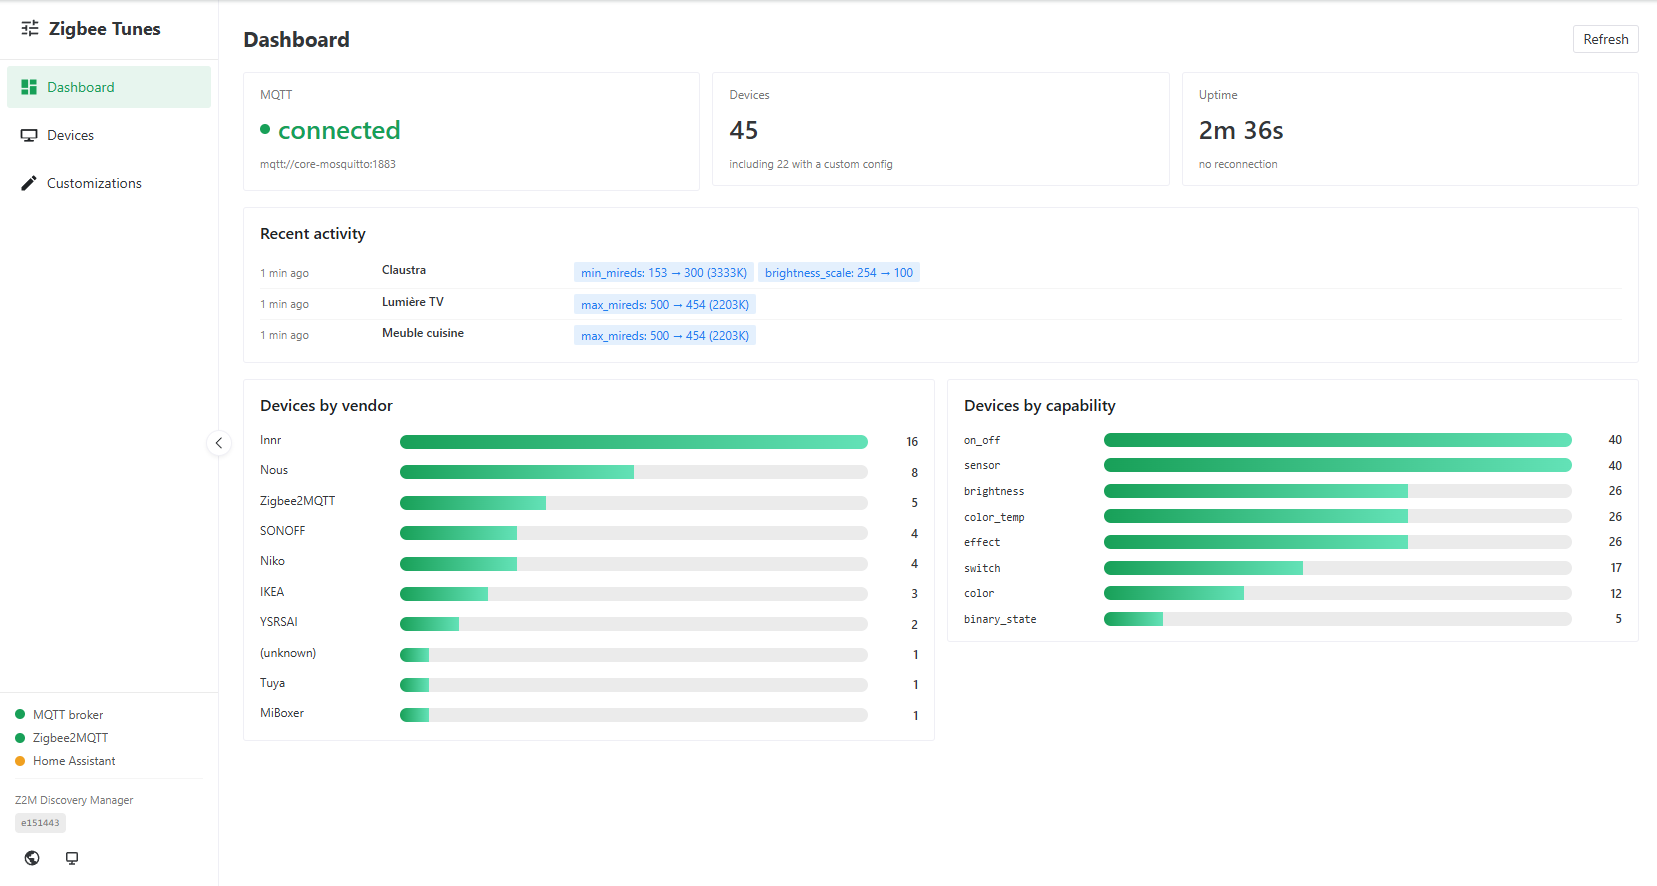
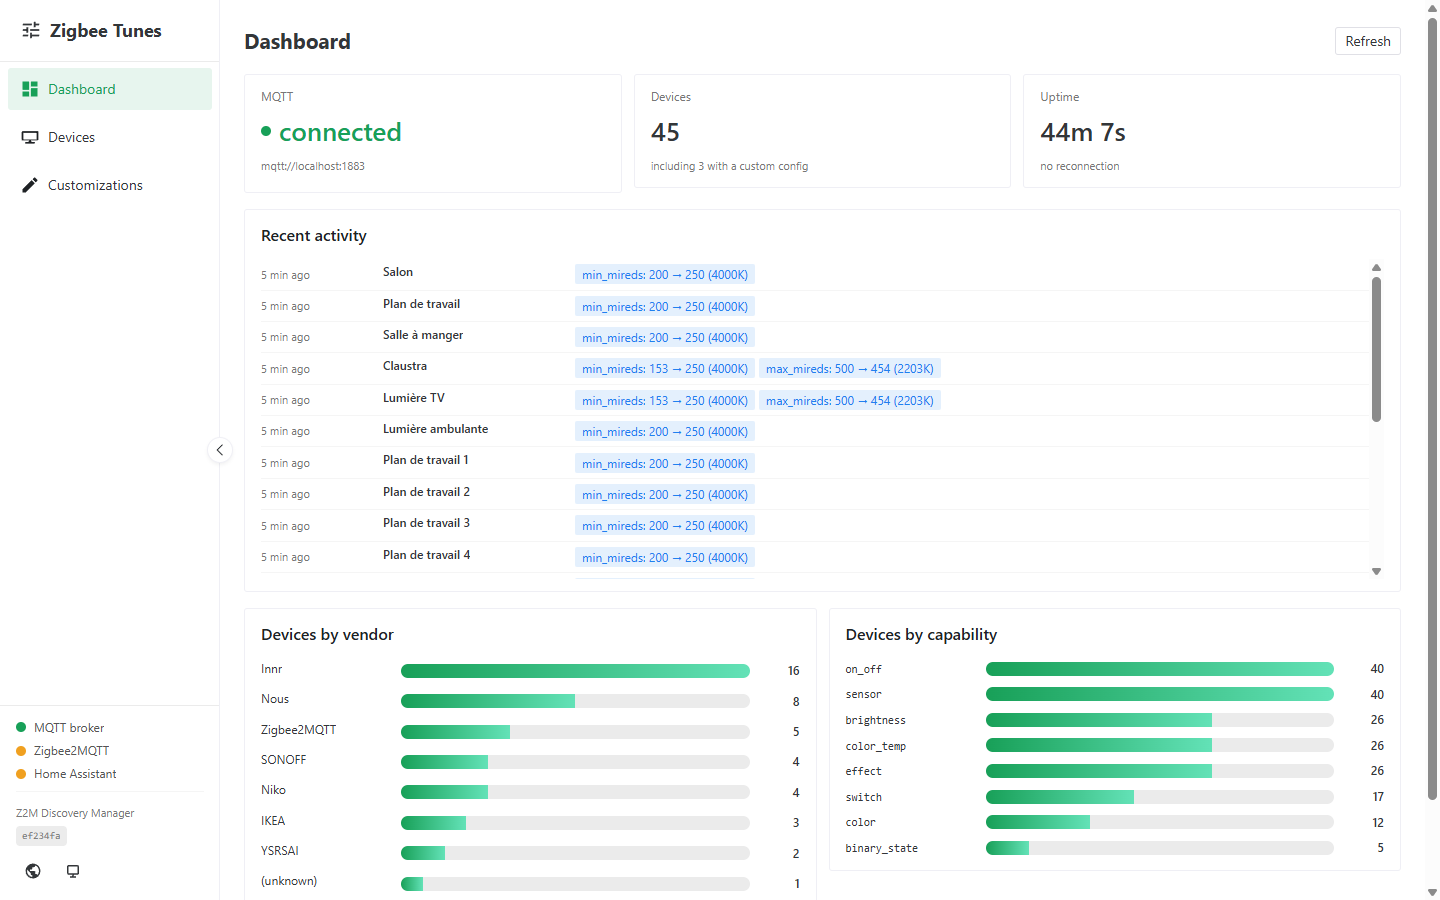
docs: refresh the README for what the UI has become, and reshoot it
The screenshots were from 5 July, three releases ago, and the feature list
described 1.0.0. Neither mentioned configurations, the slider, the percentage
switch or assignment — most of what a reader would come here to see.

Reshot in English, since both READMEs share the same files. A fourth image
joins them: `customizations.png`. The screenshot guide had listed it as an
"optional extra" back when it was a plain ledger; it is now where the product
actually lives.

Two things learned while shooting, both written into the guide so the next
person does not rediscover them:

An empty broker means no device advertises a native colour-temperature range,
which silently hides the safe-intersection hint — precisely what `edit.png`
exists to show. The first capture looked fine and demonstrated nothing.
Replaying the stored discovery payloads to the local broker fixes it.

And the guide claimed broker IPs are not shown in the UI. They are, on the
Dashboard's MQTT tile. Capturing against a local broker keeps a LAN address
out of a public repository — corrected, along with a note that device names
describe a home's layout.

Alt text now says what each image shows rather than naming the screen.

diff --git a/README.fr.md b/README.fr.md
@@ -18,7 +18,7 @@ republie. Home Assistant obtient une **vue cohérente et harmonisée** d'un
 parc multi-marques, sans jamais modifier tes appareils Zigbee physiques.
 
 <p align="center">
-  <img src="docs/screenshots/devices.png" alt="Zigbee Tunes — vue Devices" width="820">
+  <img src="docs/screenshots/devices.png" alt="Zigbee Tunes — Devices : sélection multiple et éditeur groupé borné par la plage native de la sélection" width="820">
 </p>
 
 ## Pourquoi
@@ -45,18 +45,36 @@ pas tes appareils et n'est pas un moteur d'automatisation.
   pièces HA), `entity-rename` (renommage d'affichage sans casse).
 - **Six patterns de ciblage** — `*`, `<ieee>`, `@vendor:`, `@group:`,
   `@model:`, `@friendlyname:` (avec match par préfixe `*`).
+- **Des configurations, pas seulement des règles** — les appareils normalisés
+  à l'identique partagent une configuration et une couleur dans toute l'UI.
+  En modifier une suit tous ceux qui l'utilisent ; ou détacher un seul
+  appareil dans une configuration à lui, sans quitter le dialogue.
+- **Des plages sur un curseur**, borné par ce que les appareils visés
+  supportent réellement, en mireds **ou en pourcentage**. L'intervalle que
+  tous peuvent honorer est dessiné sur la piste : on voit ce qu'une borne
+  coûte avant de la valider.
+- **Assigner depuis l'éditeur** — le dialogue qui définit une configuration
+  liste aussi le parc, en séparant les appareils qui *quitteraient* une autre
+  configuration de ceux qui n'en ont aucune. Appliquer une règle retire
+  l'appareil de sa précédente du même type, et ça se voit.
 - **UI web** (via HA Ingress) — grille Devices avec sélection multiple et
-  aide « intersection sûre » en édition groupée de température de couleur ;
-  registre Customizations avec annulation en un clic ; Dashboard avec statut
-  de connexion et répartition du parc. Anglais/français, dark/light,
-  responsive.
+  filtres par capacité ; registre Customizations avec annulation en un clic ;
+  Dashboard avec statut de connexion, activité récente et répartition du parc.
+  Anglais/français, dark/light, responsive.
 - **Smart-apply atomique** — appliquer une règle remplace toute règle
   existante du même type pour cet appareil (pas d'accumulation de doublons).
 - **Fiable** — cache de discovery par topic : un changement de règle
   atteint la bonne entité sans attendre un redémarrage de Z2M.
 
 <p align="center">
-  <img src="docs/screenshots/edit.png" alt="Édition groupée de la température de couleur avec les plages natives" width="820">
+  <img src="docs/screenshots/edit.png" alt="Édition d'une configuration : curseur borné par la plage native des appareils, intersection sûre, et le parc listé pour l'assignation" width="820">
+</p>
+
+Chaque configuration distincte est listée avec les appareils qui l'utilisent :
+un parc normalisé de trois façons se lit en trois lignes plutôt qu'en quarante.
+
+<p align="center">
+  <img src="docs/screenshots/customizations.png" alt="Customizations : chaque configuration en usage, avec sa couleur et ses appareils" width="820">
 </p>
 
 ## Installation

diff --git a/README.md b/README.md
@@ -18,7 +18,7 @@ a **consistent, harmonized view** of a mixed-brand fleet, while your
 physical Zigbee devices are never modified.
 
 <p align="center">
-  <img src="docs/screenshots/devices.png" alt="Zigbee Tunes — Devices view" width="820">
+  <img src="docs/screenshots/devices.png" alt="Zigbee Tunes — Devices: multi-select and the bulk editor bounded by the selection's native range" width="820">
 </p>
 
 ## Why
@@ -44,17 +44,36 @@ automation engine.
   areas), `entity-rename` (safe display-name override).
 - **Six targeting patterns** — `*`, `<ieee>`, `@vendor:`, `@group:`,
   `@model:`, `@friendlyname:` (with `*` prefix match).
-- **Web UI** (through HA Ingress) — Devices grid with multi-select and a
-  live "safe intersection" hint when bulk-editing color temperature;
-  Customizations ledger with one-click undo; Dashboard with connection
-  status and fleet breakdown. English/French, dark/light, responsive.
+- **Configurations, not just rules** — devices normalized identically share a
+  configuration and a colour throughout the UI. Change one and every device
+  using it follows; or split a single device off into a configuration of its
+  own, without leaving the dialog.
+- **Ranges on a slider**, bounded by what the targeted devices actually
+  support, in mireds **or as a percentage**. The span every one of them can
+  honour is drawn on the track, so you can see what a bound costs before
+  committing to it.
+- **Assign from the editor** — the dialog that defines a configuration also
+  lists the fleet, separating devices that would *move off* another
+  configuration from those that have none. Applying a rule drops a device from
+  its previous one of the same type, and that shows.
+- **Web UI** (through HA Ingress) — Devices grid with multi-select and
+  capability filters; Customizations ledger with one-click undo; Dashboard
+  with connection status, recent activity and a fleet breakdown.
+  English/French, dark/light, responsive.
 - **Atomic smart-apply** — applying a rule replaces any existing rule of
   the same type for that device (no duplicate accretion).
 - **Reliable** — per-topic discovery cache so a rule change reaches the
   right entity without waiting for a Z2M restart.
 
 <p align="center">
-  <img src="docs/screenshots/edit.png" alt="Bulk-editing color temperature with native-range hints" width="820">
+  <img src="docs/screenshots/edit.png" alt="Editing a configuration: a slider bounded by the devices' native range, the safe intersection, and the fleet listed for assignment" width="820">
+</p>
+
+Every distinct configuration is listed with the devices using it, so a fleet
+normalized three different ways reads as three lines rather than forty:
+
+<p align="center">
+  <img src="docs/screenshots/customizations.png" alt="Customizations: each configuration in use, colour-coded, with the devices on it" width="820">
 </p>
 
 ## Install

diff --git a/docs/screenshots/README.md b/docs/screenshots/README.md
@@ -1,15 +1,35 @@
 # Screenshots
 
-Drop the images referenced by the root `README.md` here:
+The images referenced by `README.md` and `README.fr.md`. Both languages share
+the same files, so the UI is captured **in English**.
 
-- `devices.png` — the Devices grid (hero shot). A wide capture with a few
-  cards and, ideally, a selection + the edit panel open.
-- `edit.png` — bulk-editing color temperature, showing the native-range /
-  "safe intersection" hints.
+- `devices.png` — the Devices grid with a selection open, showing the bulk
+  editor bounded by the selection's native range. Note that picking the first
+  device auto-filters the grid to similar ones; that is deliberate, and worth
+  showing.
+- `edit.png` — the configuration dialog: the slider with its native bounds and
+  safe intersection, the mireds/percent switch, and the fleet listed for
+  assignment.
+- `customizations.png` — the configurations in use, colour-coded, with the
+  devices on each.
+- `dashboard.png` — connection status, recent activity, fleet breakdown.
 
-Recommended: PNG, ~1200–1600px wide, light **or** dark theme (be
-consistent). Crop out the browser chrome. Redact any personal data
-(real IEEE addresses are fine; broker IPs are not shown in the UI).
+Recommended: PNG, ~1200–1600px wide, light **or** dark theme (be consistent).
+Crop out the browser chrome.
 
-Optional extras worth adding and linking from the README:
-`dashboard.png`, `customizations.png`.
+## Before publishing one
+
+**The Dashboard shows the broker URL.** An earlier version of this file claimed
+it did not — it does, under the MQTT tile. Capture against a local broker so it
+reads `mqtt://localhost:1883` rather than a LAN address.
+
+Device friendly names are visible throughout and describe a home's layout.
+IEEE addresses are harmless. Neither is secret, but both are yours: decide
+deliberately rather than by default.
+
+## Reproducing the environment
+
+Screenshots taken against an empty broker show a fleet with no native colour
+temperature ranges, which hides the safe-intersection hint — the very thing
+`edit.png` exists to show. Replay the stored discovery payloads to the local
+broker first so the ranges populate.
